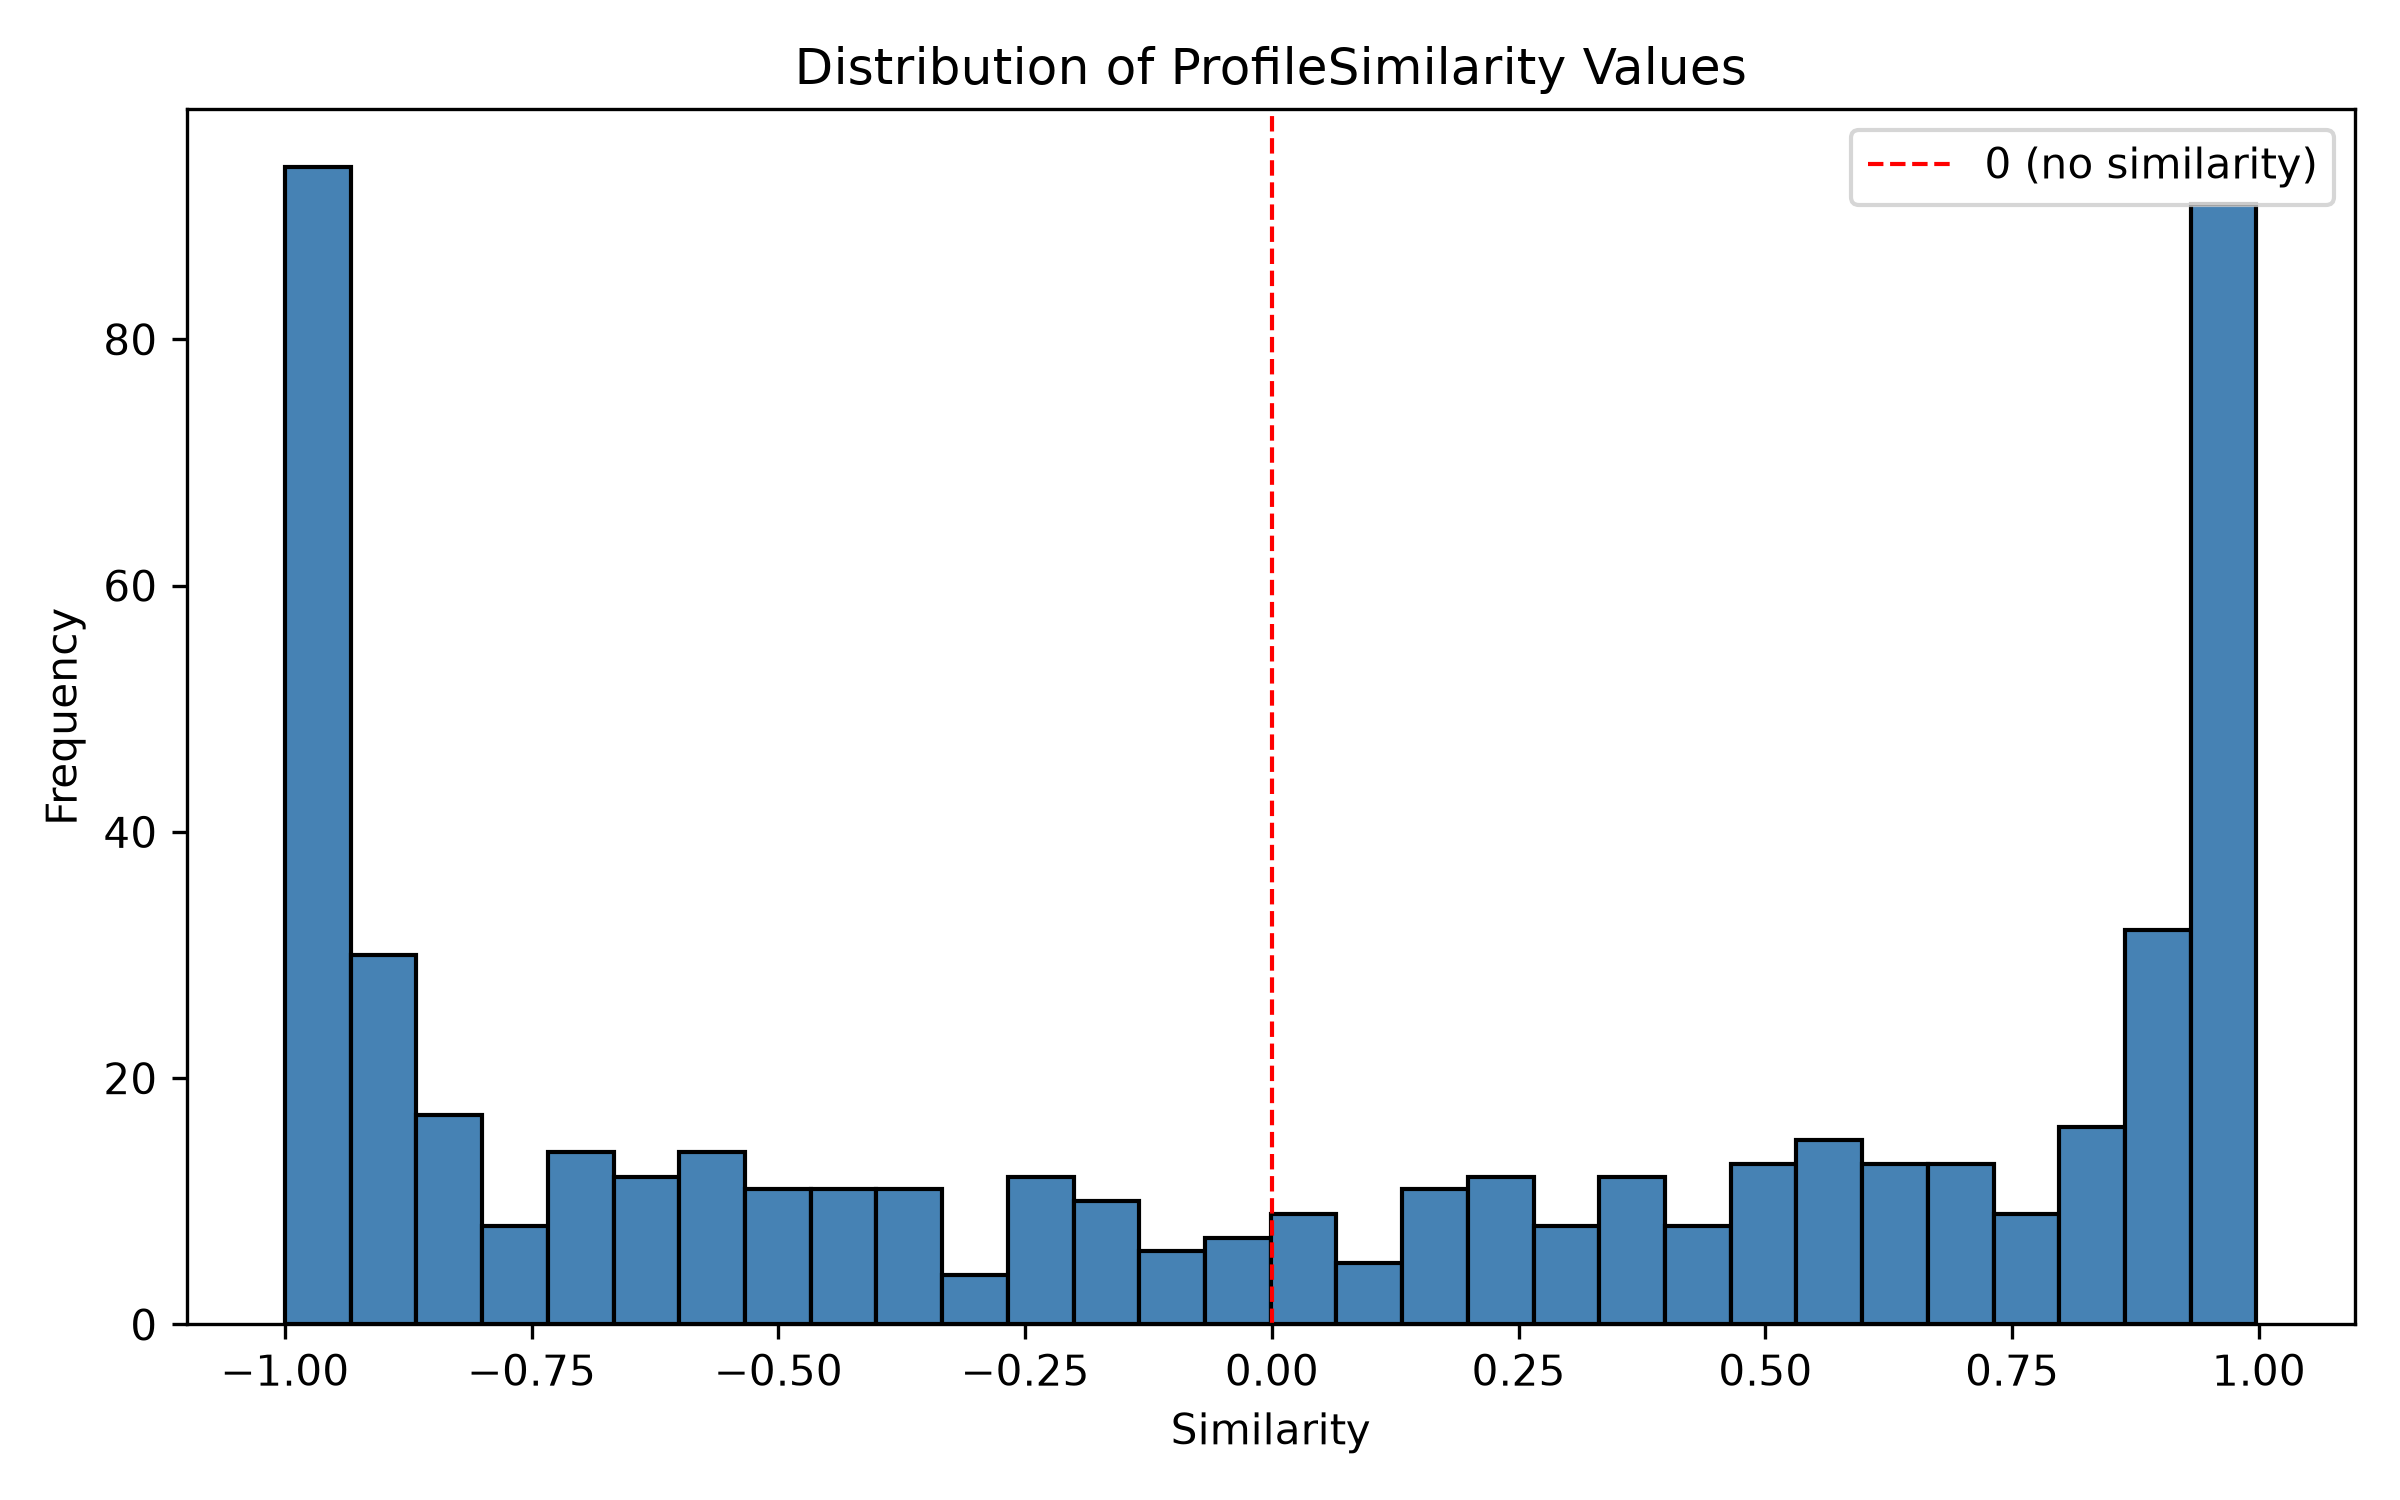
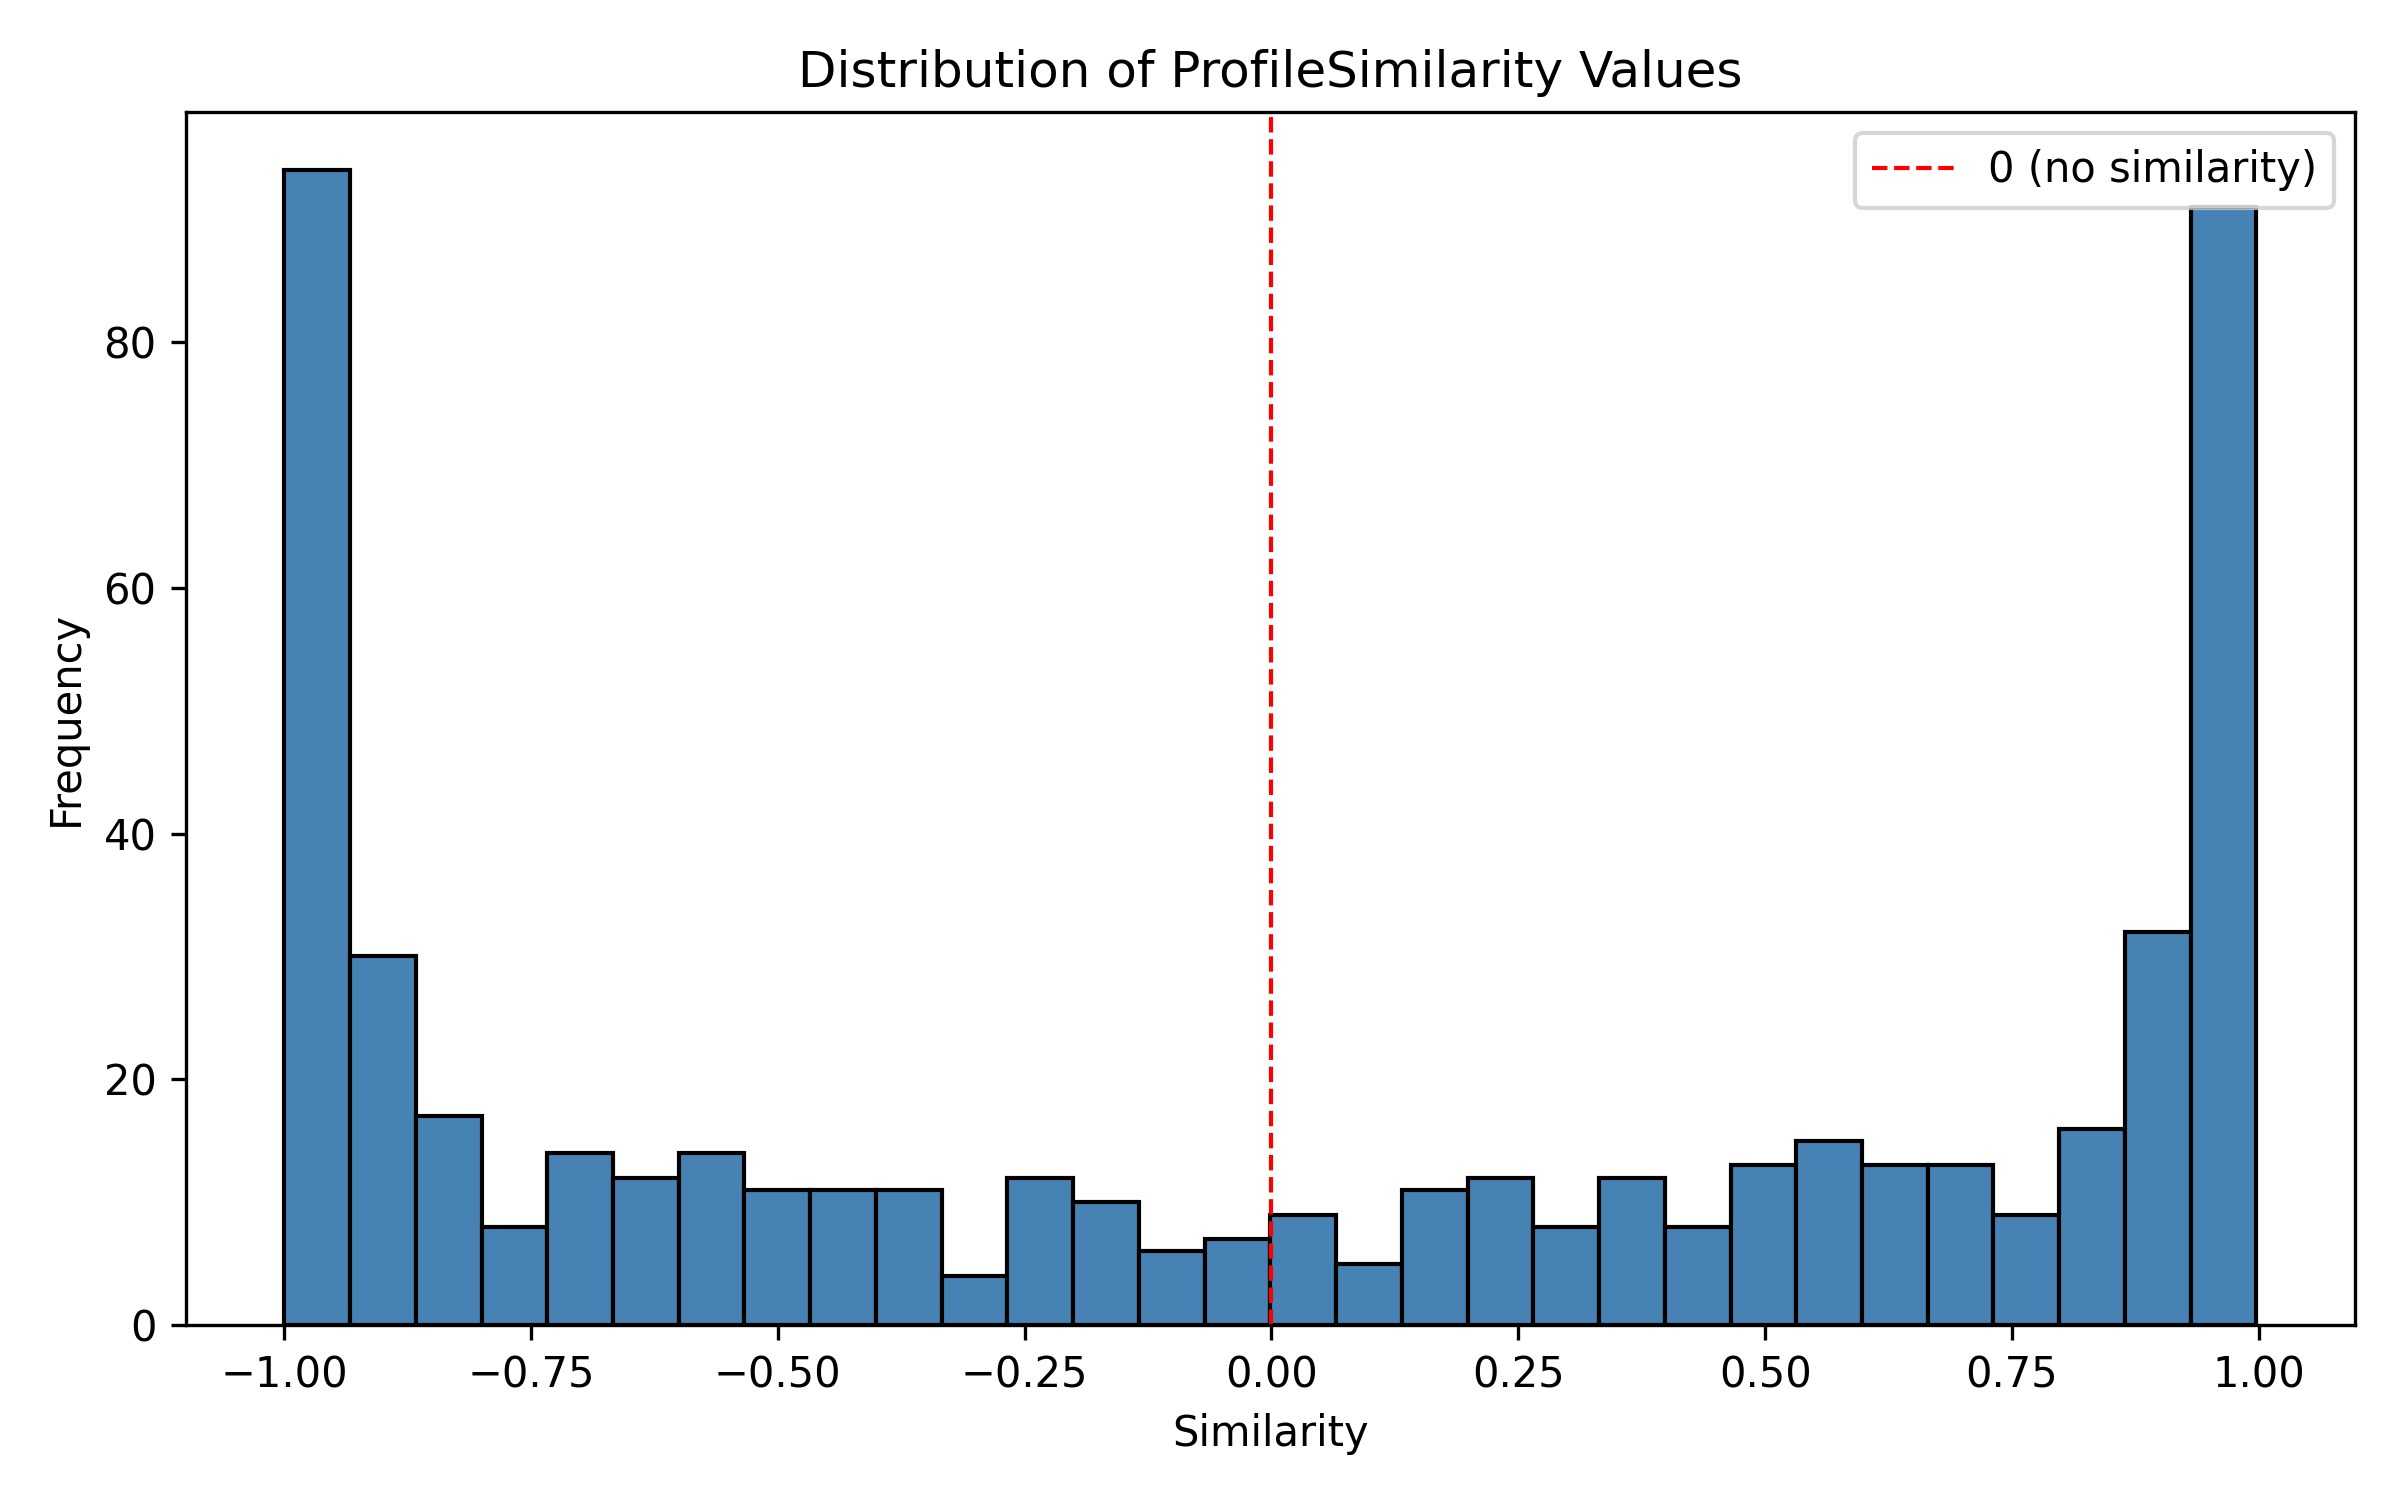
Update README.md, remove unneeded files

diff --git a/borough_profile_similarity.py b/borough_profile_similarity.py
@@ -5,10 +5,10 @@ import networkx as nx
 import plotly.graph_objects as go
 
 # Load the file
-df = pd.read_csv("data/combined_aggregate_scores.csv")
+# df = pd.read_csv("data/new_combined_aggregate_scores.csv")
 
 # Standardize features (should be fine without, but just to be sure)
-features = df[["airbnb_pressure_score","housing_pressure_score","transport_accessibility_score"]]
+# features = df[["airbnb_pressure_score","housing_pressure_score","transport_pressure_score"]]
 scaler = StandardScaler()
 X = scaler.fit_transform(features)
 
